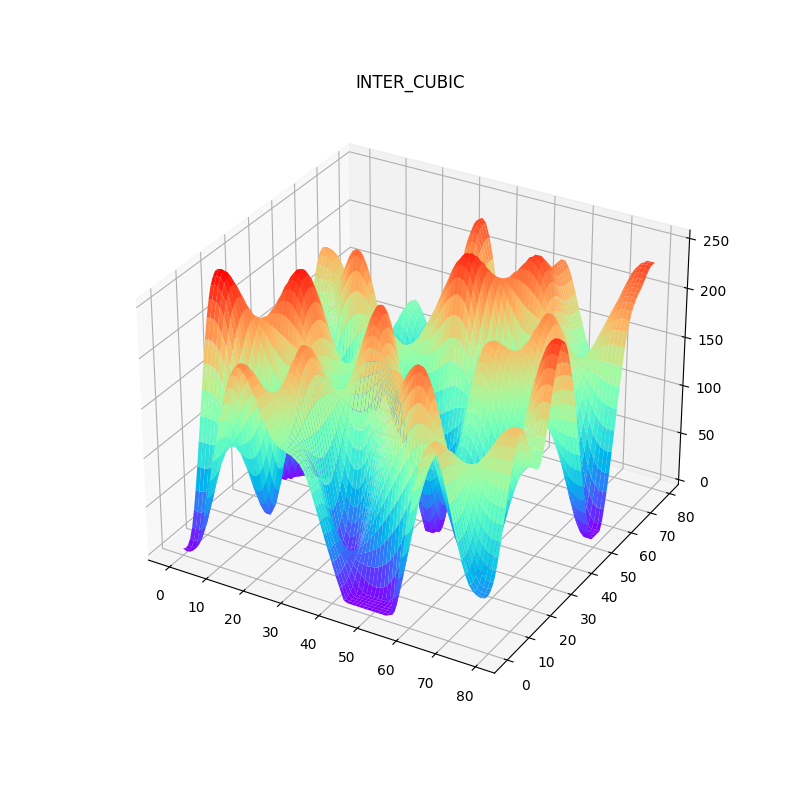
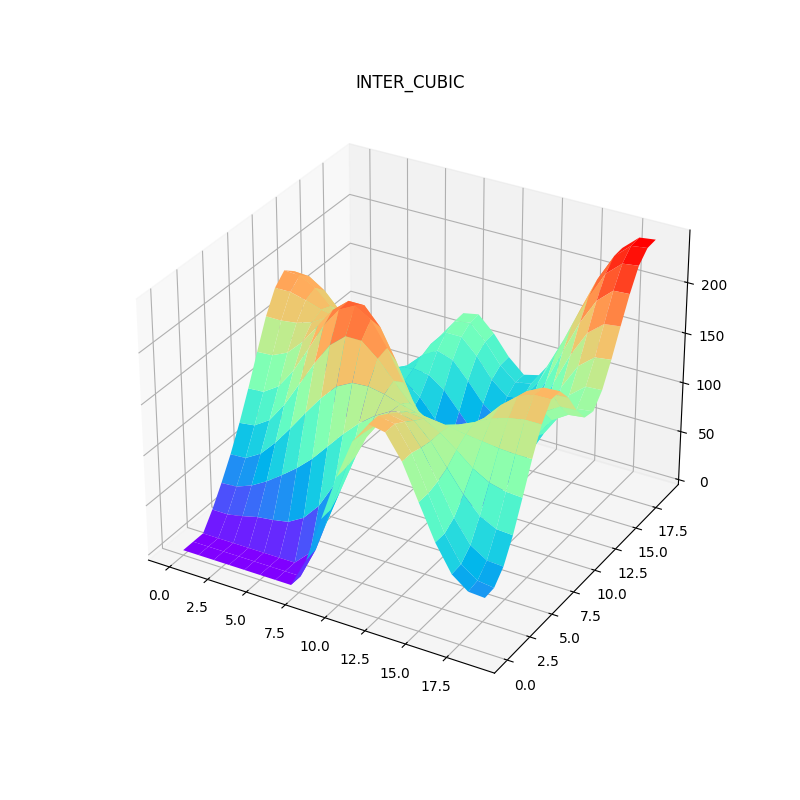
reshape

diff --git a/_posts/2020-10-20-dip-image-interpolation.md b/_posts/2020-10-20-dip-image-interpolation.md
@@ -129,7 +129,7 @@ def main():
 e7ff00 0047ff 000000 ff4b00
 ff4b00 e7ff00 0047ff 00ffe7
 """
-    imagestr = """
+    imagestr2 = """
 00007f 2fffc7 00bcff 00007f 000000 0047ff e7ff00 000000
 00b0ff de0000 32ffc3 56ffa0 820000 00ffe7 ff4b00 0047ff
 ffd300 53ffa3 ffd300 0050ff e7ff00 0047ff 000000 ff4b00
@@ -140,12 +140,13 @@ e7ff00 0047ff 000000 ff4b00 ffd300 53ffa3 ffd300 0050ff
 ff4b00 e7ff00 0047ff 00ffe7 ff7600 7f0000 0090ff 32ffc3
 """
     myimage = [strcolor(color) for color in imagestr.split()]
-    myimage = np.asarray(myimage).reshape(8, 8, 3).astype(np.uint8)
+    ksize = round(len(myimage) ** 0.5)
+    myimage = np.asarray(myimage).reshape(ksize, ksize, 3).astype(np.uint8)
 
-    nearest  = imgtest(myimage, cv2.INTER_NEAREST)
-    linear   = imgtest(myimage, cv2.INTER_LINEAR)
-    cubic    = imgtest(myimage, cv2.INTER_CUBIC)
-    lanczos4 = imgtest(myimage, cv2.INTER_LANCZOS4)
+    nearest  = imgtest(myimage, cv2.INTER_NEAREST, 50)
+    linear   = imgtest(myimage, cv2.INTER_LINEAR, 50)
+    cubic    = imgtest(myimage, cv2.INTER_CUBIC, 50)
+    lanczos4 = imgtest(myimage, cv2.INTER_LANCZOS4, 50)
 
     imgshow4(nearest, "INTER_NEAREST",
         linear, "INTER_LINEAR",
@@ -155,10 +156,10 @@ ff4b00 e7ff00 0047ff 00ffe7 ff7600 7f0000 0090ff 32ffc3
 
     myimage = cv2.cvtColor(myimage, cv2.COLOR_BGR2GRAY)
 
-    nearest  = imgtest(myimage, cv2.INTER_NEAREST, 10)
-    linear   = imgtest(myimage, cv2.INTER_LINEAR, 10)
-    cubic    = imgtest(myimage, cv2.INTER_CUBIC, 10)
-    lanczos4 = imgtest(myimage, cv2.INTER_LANCZOS4, 10)
+    nearest  = imgtest(myimage, cv2.INTER_NEAREST, 5)
+    linear   = imgtest(myimage, cv2.INTER_LINEAR, 5)
+    cubic    = imgtest(myimage, cv2.INTER_CUBIC, 5)
+    lanczos4 = imgtest(myimage, cv2.INTER_LANCZOS4, 5)
 
     imgshow3d(nearest, "INTER_NEAREST")
     imgshow3d(linear, "INTER_LINEAR")
